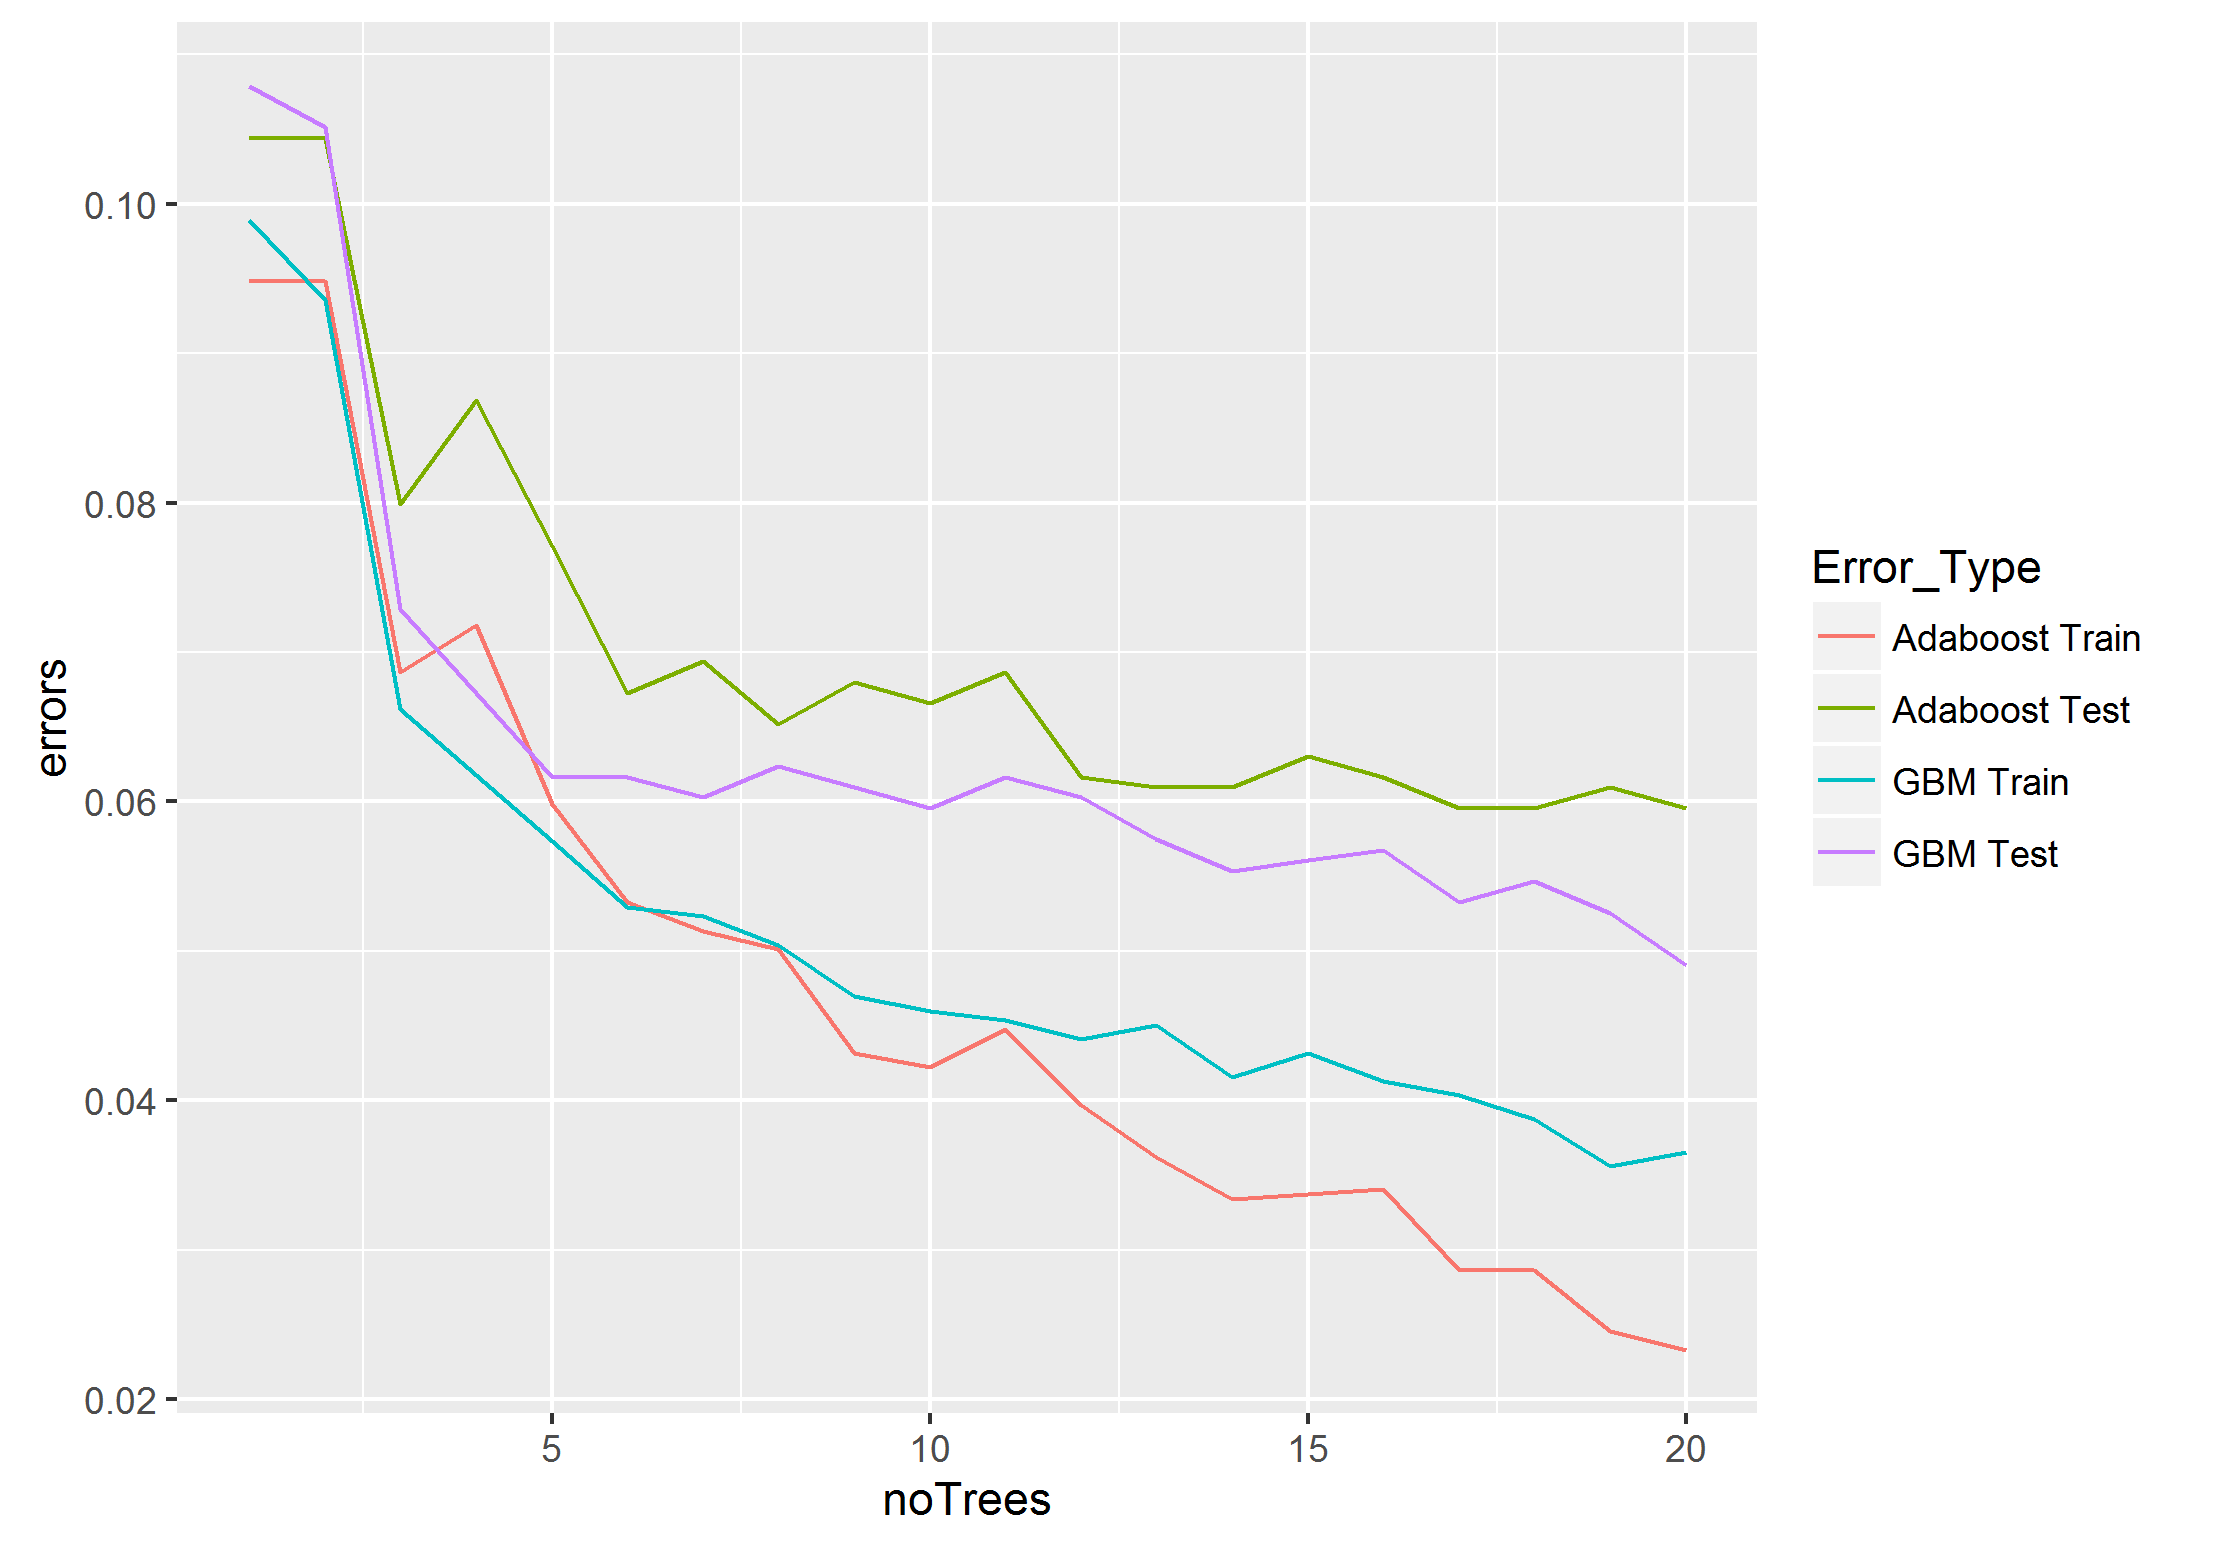
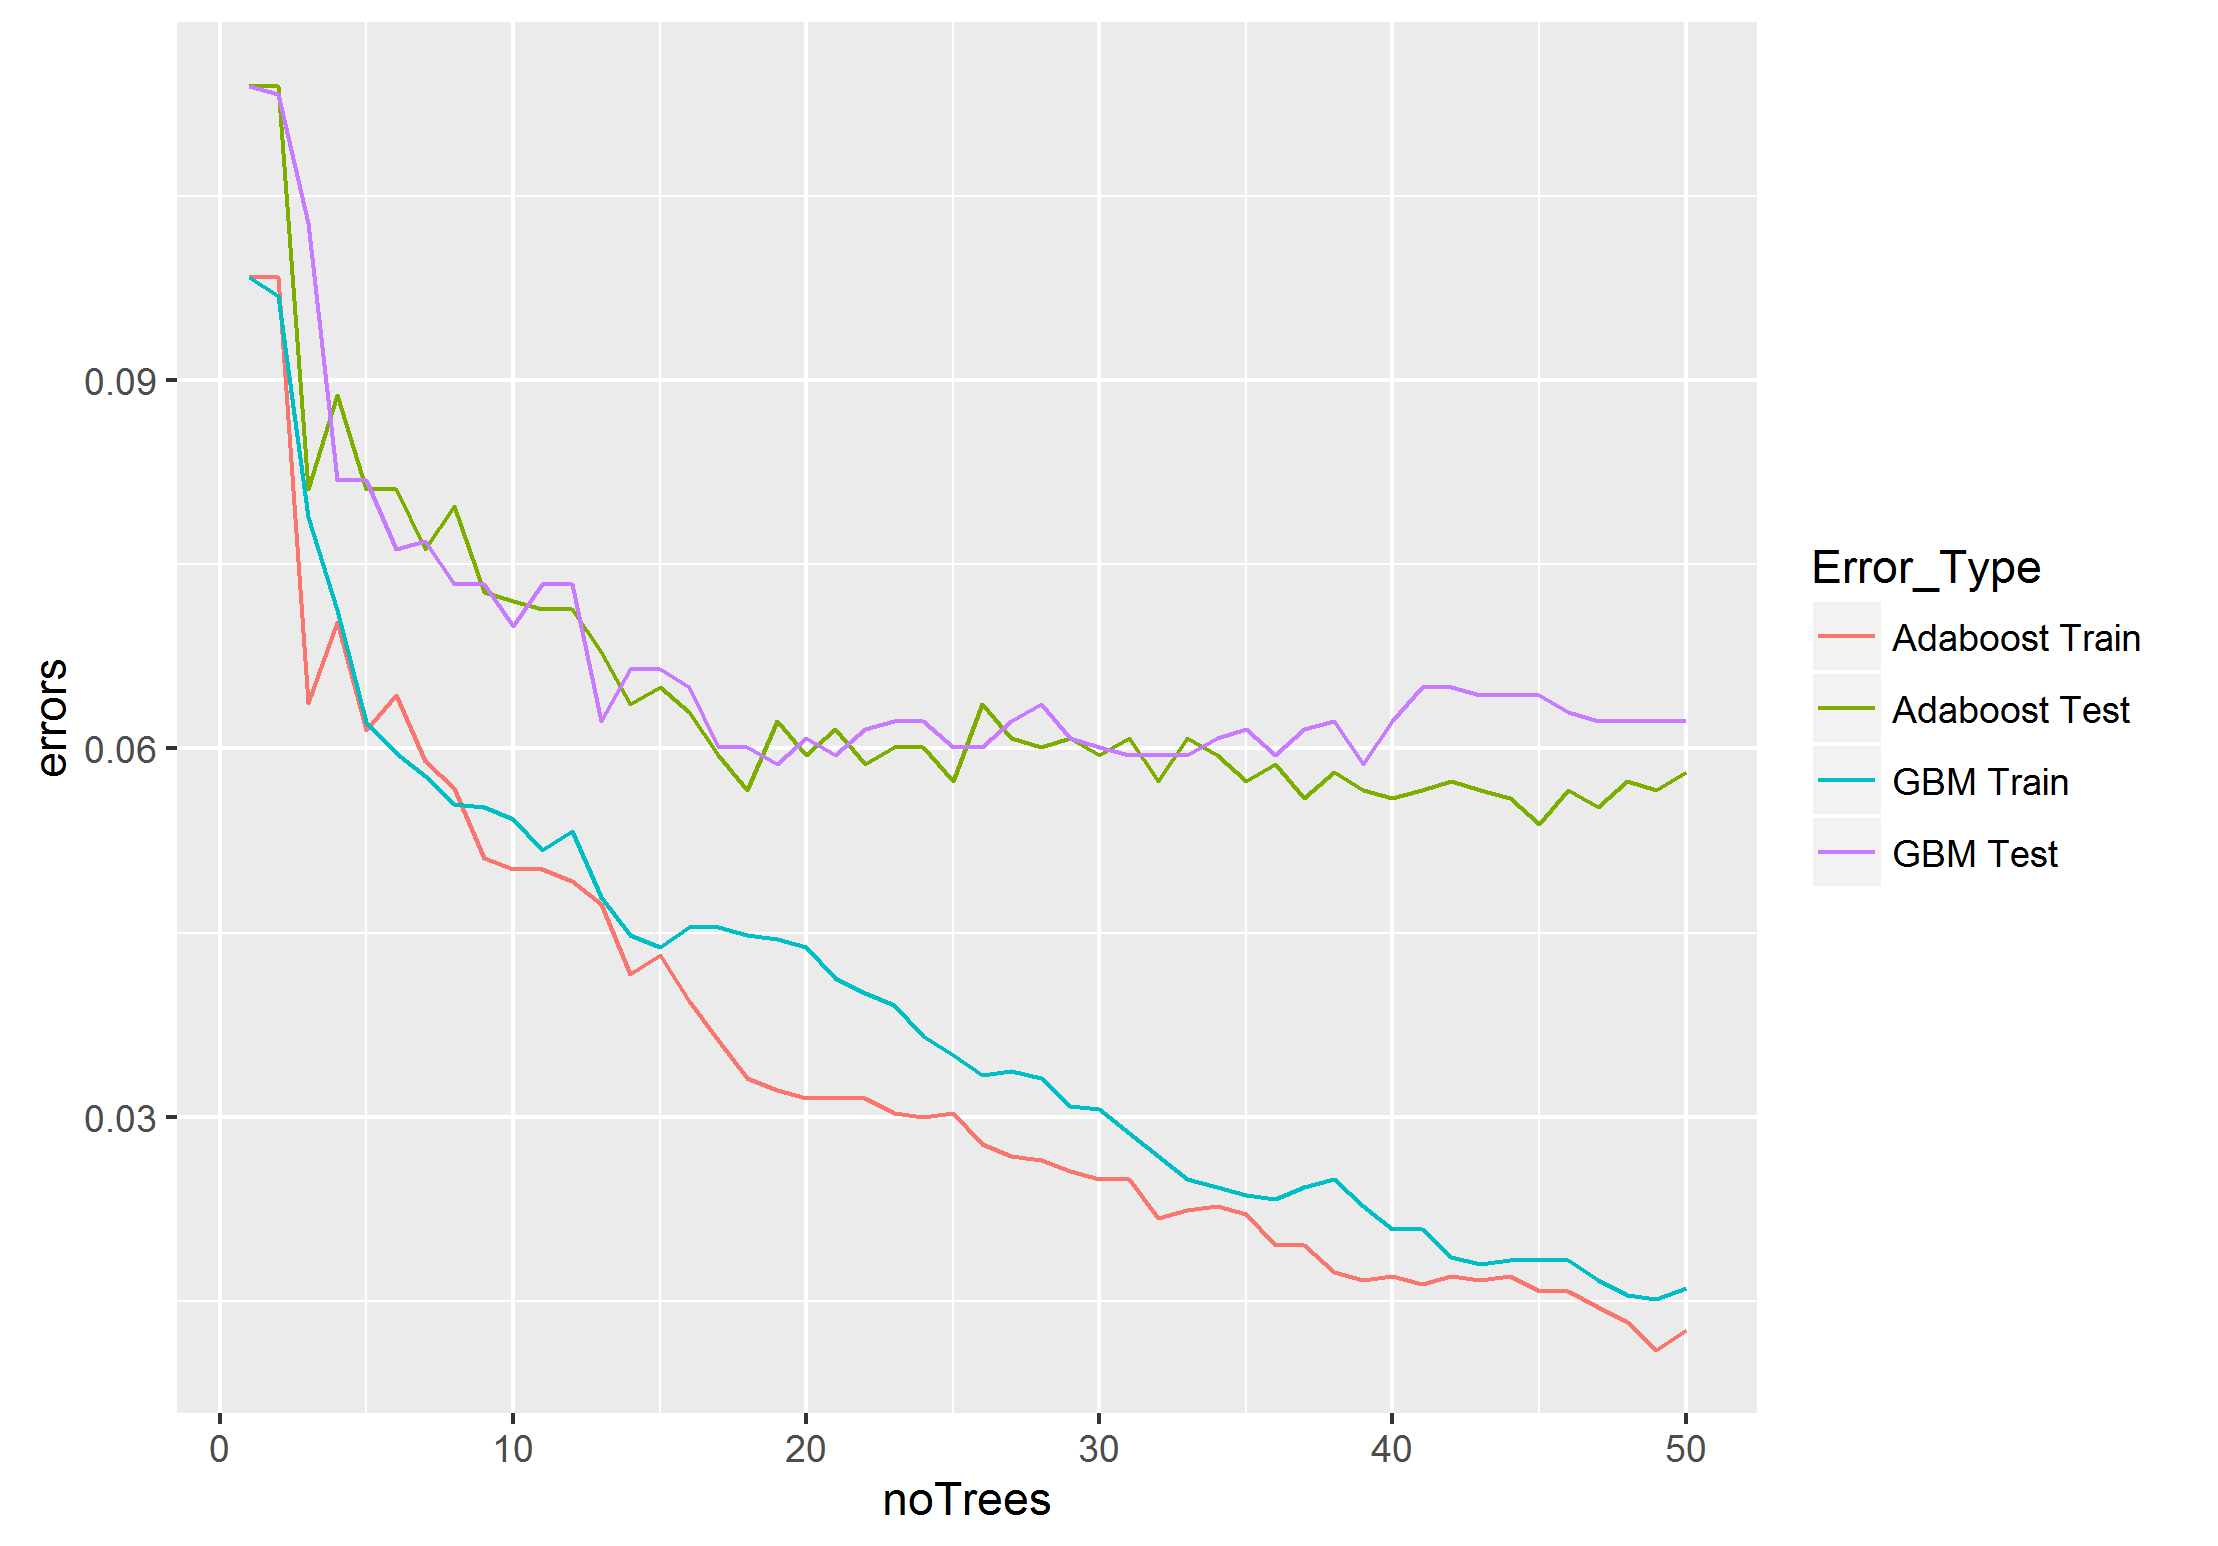
added a readme, new images, tweaks

diff --git a/PS6/readme.MD b/PS6/readme.MD
@@ -1,0 +1,32 @@
+# Implementation of AdaBoost.M1
+
+Implements the AdaBoost.M1 algorithm by boosting a weak classifier from the 'rpart' package and
+testing it against the boosting in the 'gbm' package.
+
+For more detail, please see the comments in the R scripts.
+
+## adaBoost.R
+
+Implements AdaBoost.M1.
+
+#### Public function:
+	adaBoost()
+
+## adaBoost_spam.R
+
+Compares the AdaBoost.M1 implementation against 'gbm'.
+
+#### Public function:
+	adaBoost_spam.R()
+
+## Packages required:
+	gbm
+	rpart
+	ggplot2
+	assertthat
+	caTools
+
+When run directly this R script will execute the adaBoost_spam() function which will create a PDF
+and a PNG containing its test results.  A relatively low depth of 5 is permitted for the classification
+to force the predictors to struggle.  With adequate depth, the performance of both predictors is
+excellent and therefore less good for comparison.
